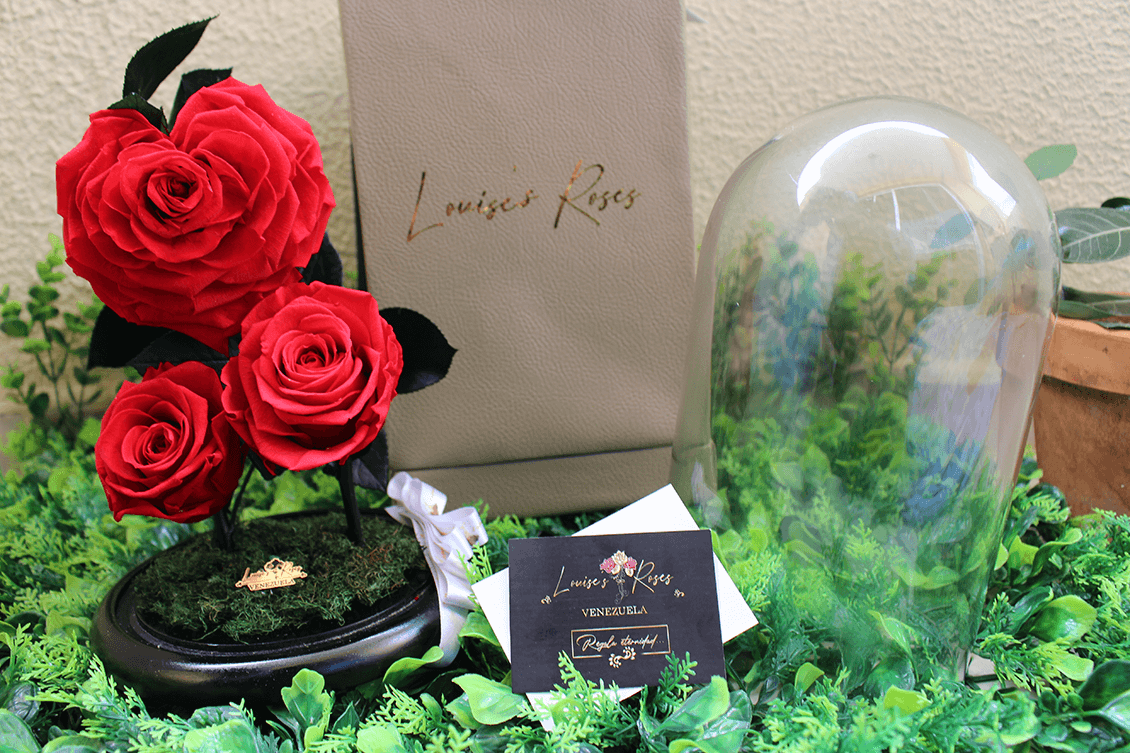
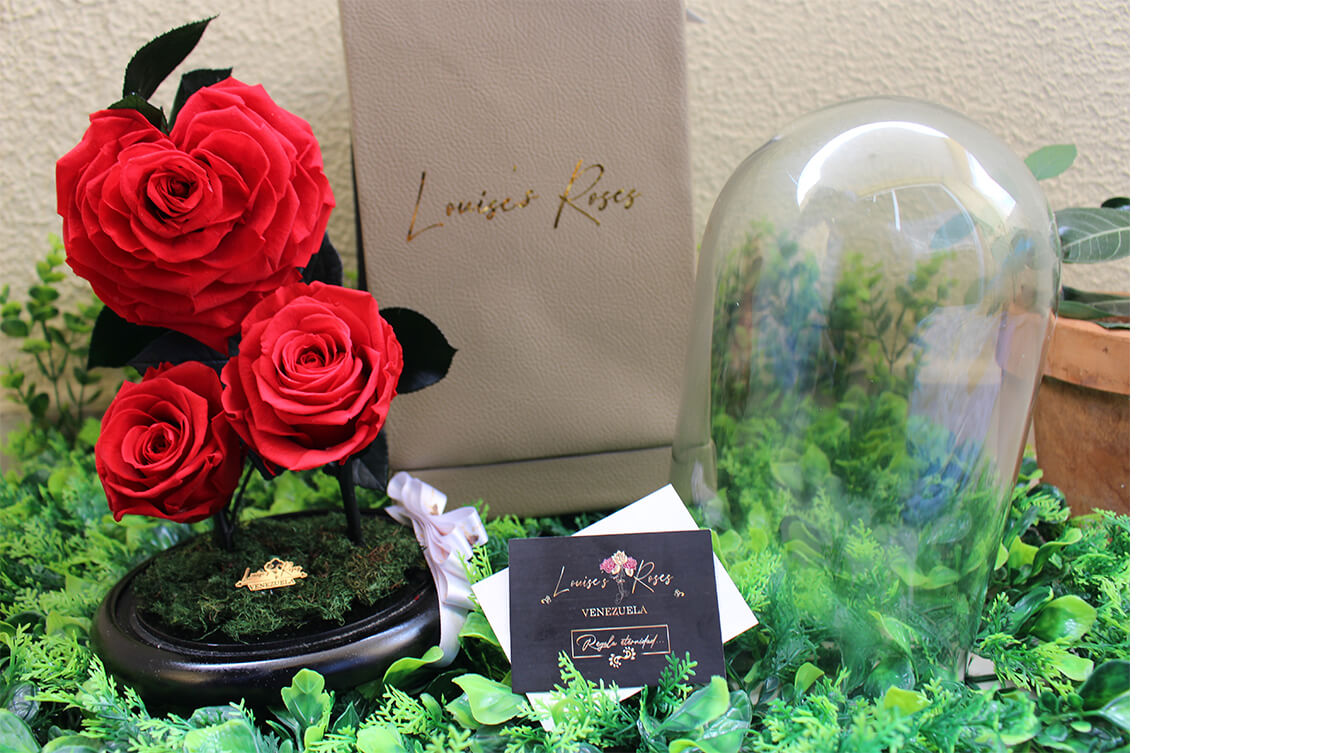
Homepage finished

diff --git a/src/public/css/main.css b/src/public/css/main.css
@@ -1,2 +1,2 @@
-*{color:#fff;font-family:'Nunito Sans', sans-serif;font-size:17px;-webkit-box-sizing:border-box;box-sizing:border-box}body{background-color:#1f1f1f;margin:0;overflow-x:hidden}.container{display:-webkit-box;display:-ms-flexbox;display:flex;-webkit-box-orient:vertical;-webkit-box-direction:normal;-ms-flex-direction:column;flex-direction:column;-webkit-box-align:center;-ms-flex-align:center;align-items:center}li{list-style:none}a{text-decoration:none}.btn{border:2px solid #cd83e2;border-radius:5px;background:none;color:#cd83e2;font-size:27.51px;padding:12px 27px}.title{font-size:44.51px;font-weight:700}.center{text-align:center}.left{text-align:left}.right{text-align:right}.nav nav{margin:auto;height:80px;width:1803px;display:-webkit-box;display:-ms-flexbox;display:flex;-webkit-box-pack:justify;-ms-flex-pack:justify;justify-content:space-between;-webkit-box-align:center;-ms-flex-align:center;align-items:center}.nav nav .nav__links{display:-webkit-box;display:-ms-flexbox;display:flex;-webkit-box-pack:justify;-ms-flex-pack:justify;justify-content:space-between;padding:0;width:269px}.nav nav .nav__icon{width:41px}.nav nav .nav__btn{display:none}header{margin-top:194px;margin-bottom:115px;display:-ms-grid;display:grid;-ms-grid-columns:852px 363px;grid-template-columns:852px 363px;gap:206px}header .header__logo{-webkit-filter:drop-shadow(0px 0px 10px rgba(0,0,0,0.75));filter:drop-shadow(0px 0px 10px rgba(0,0,0,0.75))}.header__info .header__title{margin-top:49px;margin-bottom:27px;font-size:72.02px;font-weight:700}.header__info .header__title *{line-height:82.75px}.header__info .header__title span{color:#969696;font-size:72.02px;font-weight:700}.header__info .header__text{margin-bottom:50px;line-height:23.19px}.bi-arrow-down-circle{font-size:57px;margin-bottom:172px;cursor:pointer}.carousel{width:1339px;margin-bottom:157px;position:relative}.carousel .glider__item{position:relative;margin:0 25px}.carousel .glider__item img{position:relative;left:0}.carousel .carousel__back{left:-70px}.carousel .carousel__next{right:-70px}.carousel button{position:absolute;top:0;bottom:0;background:none;border:none;cursor:pointer}.carousel button i{font-size:35px}.proyect__info{background-color:#f3f3f3;position:absolute;right:0;width:446.33px;height:753px;top:0;padding:25px}.proyect__info *{color:#000}.proyect__number{font-size:116.53px;height:89px;font-weight:700;color:#969696;width:100%;text-align:right;margin-bottom:385px}.proyect__name{margin:0;margin-bottom:8px;font-size:27.51px;font-weight:700}.proyect__description{line-height:23.19px;margin:0;margin-bottom:37px;width:316px;font-size:17px}.proyect__links{margin:0;padding:0;width:100%;display:-webkit-box;display:-ms-flexbox;display:flex;-webkit-box-pack:end;-ms-flex-pack:end;justify-content:flex-end}.proyect__links .bi-github{margin-right:23px}.proyect__links i{font-size:34px;color:#969696}
+*{color:#fff;font-family:'Nunito Sans', sans-serif;font-size:17px;-webkit-box-sizing:border-box;box-sizing:border-box}html{scroll-behavior:smooth}body{background-color:#1f1f1f;margin:0;overflow-x:hidden}.container{display:-webkit-box;display:-ms-flexbox;display:flex;-webkit-box-orient:vertical;-webkit-box-direction:normal;-ms-flex-direction:column;flex-direction:column;-webkit-box-align:center;-ms-flex-align:center;align-items:center}.bi-arrow-down-circle{font-size:57px}.scroll{margin-bottom:172px}li{list-style:none}a{text-decoration:none}.btn{border:2px solid #cd83e2;border-radius:5px;background:none;color:#cd83e2;font-size:27.51px;padding:12px 27px}.title{font-size:44.51px;font-weight:700}.center{text-align:center}.left{text-align:left}.right{text-align:right}.nav nav{margin:auto;height:80px;width:1803px;display:-webkit-box;display:-ms-flexbox;display:flex;-webkit-box-pack:justify;-ms-flex-pack:justify;justify-content:space-between;-webkit-box-align:center;-ms-flex-align:center;align-items:center}.nav nav .nav__links{display:-webkit-box;display:-ms-flexbox;display:flex;-webkit-box-pack:justify;-ms-flex-pack:justify;justify-content:space-between;padding:0;width:269px}.nav nav .nav__icon{width:41px}.nav nav .nav__btn{display:none}header{margin-top:194px;margin-bottom:115px;display:-ms-grid;display:grid;-ms-grid-columns:852px 363px;grid-template-columns:852px 363px;gap:206px}header .header__logo{-webkit-filter:drop-shadow(0px 0px 10px rgba(0,0,0,0.75));filter:drop-shadow(0px 0px 10px rgba(0,0,0,0.75))}.header__info .header__title{margin-top:49px;margin-bottom:27px;font-size:72.02px;font-weight:700}.header__info .header__title *{line-height:82.75px}.header__info .header__title span{color:#969696;font-size:72.02px;font-weight:700}.header__info .header__text{margin-bottom:50px;line-height:23.19px}.carousel{width:1339px;margin-bottom:157px;position:relative}.carousel .glider__item{position:relative;margin:0 25px}.carousel .glider__item img{position:relative;-o-object-fit:cover;object-fit:cover;left:0}.carousel .carousel__back{left:-70px}.carousel .carousel__next{right:-70px}.carousel button{position:absolute;top:0;bottom:0;background:none;border:none;cursor:pointer}.carousel button i{font-size:35px}.proyect__info{background-color:#f3f3f3;position:absolute;right:0;width:446.33px;height:724.88px;top:0;padding:25px}.proyect__info *{color:#000}.proyect__number{font-size:116.53px;height:89px;font-weight:700;color:#969696;width:100%;text-align:right;margin-bottom:370px}.proyect__name{margin:0;margin-bottom:8px;font-size:27.51px;font-weight:700}.proyect__description{line-height:23.19px;margin:0;margin-bottom:37px;width:316px;font-size:17px}.proyect__links{margin:0;padding:0;width:100%;display:-webkit-box;display:-ms-flexbox;display:flex;-webkit-box-pack:end;-ms-flex-pack:end;justify-content:flex-end}.proyect__links .bi-github{margin-right:23px}.proyect__links i{font-size:34px;color:#969696}.shadow{position:absolute;font-size:305.07px;font-weight:700;color:#1c1c1c;top:-350px;left:0;z-index:-1}.cards{display:-webkit-box;display:-ms-flexbox;display:flex;-webkit-box-orient:vertical;-webkit-box-direction:normal;-ms-flex-direction:column;flex-direction:column;position:relative;-webkit-box-align:center;-ms-flex-align:center;align-items:center;margin-bottom:179px}.cards .title.center{margin-bottom:129px}.cards__info{display:-ms-grid;display:grid;-ms-grid-columns:(403px)[3];grid-template-columns:repeat(3, 403px);-ms-grid-rows:560px;grid-template-rows:560px;gap:33px;margin-bottom:172px}.cards__item{background:#111111;-webkit-box-shadow:0px 7px 16px 4px rgba(0,0,0,0.25);box-shadow:0px 7px 16px 4px rgba(0,0,0,0.25);display:-ms-grid;display:grid;-ms-grid-rows:300px 1fr;grid-template-rows:300px 1fr;padding:0 43px;border-radius:5px}.cards__item img{-ms-flex-item-align:center;-ms-grid-row-align:center;align-self:center;-ms-grid-column-align:center;justify-self:center}.cards__item h5{font-size:27.51px;font-weight:700;margin:0}.cards__item p{line-height:23.19px;margin:0;margin-top:15px}.cards__img--team{width:297px}.cards__img--desing{width:275px}.cards__img--mockup{width:285.16px}.cards__item--more{position:relative;width:1238px}.cards__header{width:100%;display:-webkit-box;display:-ms-flexbox;display:flex;-webkit-box-orient:vertical;-webkit-box-direction:normal;-ms-flex-direction:column;flex-direction:column}.cards__header h4{font-size:44.51px;width:100%;margin-bottom:30px;font-weight:700}.cards__header img{width:640px;position:relative;-webkit-filter:drop-shadow(0px 4px 9px rgba(0,0,0,0.25));filter:drop-shadow(0px 4px 9px rgba(0,0,0,0.25))}.cards__header.service{-webkit-box-align:start;-ms-flex-align:start;align-items:flex-start}.cards__header.service h4{text-align:left}.cards__header.about{-webkit-box-align:end;-ms-flex-align:end;align-items:flex-end}.cards__header.about h4{text-align:right}.cards__main{width:896px;position:absolute;bottom:26px}.cards__main h5{margin:0;font-size:27.51px;font-weight:700}.cards__main p{line-height:23.19px;border-radius:5px;-webkit-box-shadow:0px 7px 15px 10px rgba(0,0,0,0.25);box-shadow:0px 7px 15px 10px rgba(0,0,0,0.25);background:#111111;padding:24px;margin:0;margin-top:16px}.cards__main.service{right:0}.cards__item--more.about{margin-top:166px}.call__background{width:1378px;height:689px;display:-webkit-box;display:-ms-flexbox;display:flex;-webkit-box-orient:vertical;-webkit-box-direction:normal;-ms-flex-direction:column;flex-direction:column;-webkit-box-pack:center;-ms-flex-pack:center;justify-content:center;-webkit-box-align:center;-ms-flex-align:center;align-items:center;background:url("../../svg/background.svg") no-repeat center center/cover}.call__content{display:-webkit-box;display:-ms-flexbox;display:flex;-webkit-box-orient:vertical;-webkit-box-direction:normal;-ms-flex-direction:column;flex-direction:column;-webkit-box-align:center;-ms-flex-align:center;align-items:center;margin-top:150px}.call__content .title{width:453px}footer{width:100vw;height:162px;background:#84329b;display:-webkit-box;display:-ms-flexbox;display:flex;-webkit-box-orient:vertical;-webkit-box-direction:normal;-ms-flex-direction:column;flex-direction:column;-webkit-box-align:center;-ms-flex-align:center;align-items:center;-webkit-box-pack:center;-ms-flex-pack:center;justify-content:center}.footer__links{display:-ms-grid;display:grid;-ms-grid-columns:(33px)[3];grid-template-columns:repeat(3, 33px);gap:28px}.footer__links i{font-size:33px}.footer__copy{font-weight:600;margin:0;margin-top:26px}.footer__copy a{color:#35e2cd}
 /*# sourceMappingURL=main.css.map */

diff --git a/src/public/sass/components/_cards.scss b/src/public/sass/components/_cards.scss
@@ -1,0 +1,138 @@
+.shadow {
+	position: absolute;
+	font-size: 305.07px;
+	font-weight: 700;
+	color: #1c1c1c;
+	top: -350px;
+	left: 0;
+	z-index: -1;
+}
+
+.cards {
+	display: flex;
+	flex-direction: column;
+	position: relative;
+	align-items: center;
+	margin-bottom: 179px;
+
+	.title.center {
+		margin-bottom: 129px;
+	}
+}
+
+.cards__info {
+	display: grid;
+	grid-template-columns: repeat(3, 403px);
+	grid-template-rows: 560px;
+	gap: 33px;
+	margin-bottom: 172px;
+}
+
+.cards__item {
+	background: #111111;
+	box-shadow: 0px 7px 16px 4px rgba(0, 0, 0, 0.25);
+	display: grid;
+	grid-template-rows: 300px 1fr;
+	padding: 0 43px;
+	border-radius: 5px;
+
+	img {
+		align-self: center;
+		justify-self: center;
+	}
+
+	h5 {
+		font-size: 27.51px;
+		font-weight: 700;
+		margin: 0;
+	}
+
+	p {
+		line-height: 23.19px;
+		margin: 0;
+		margin-top: 15px;
+	}
+}
+
+.cards__img--team {
+	width: 297px;
+}
+
+.cards__img--desing {
+	width: 275px;
+}
+
+.cards__img--mockup {
+	width: 285.16px;
+}
+
+// Segunda sección de targetas.
+.cards__item--more {
+	position: relative;
+	width: 1238px;
+}
+
+.cards__header {
+	width: 100%;
+	display: flex;
+	flex-direction: column;
+
+	h4 {
+		font-size: 44.51px;
+		width: 100%;
+		margin-bottom: 30px;
+		font-weight: 700;
+	}
+
+	img {
+		width: 640px;
+		position: relative;
+		filter: drop-shadow(0px 4px 9px rgba(0, 0, 0, 0.25));
+	}
+}
+
+.cards__header.service {
+	align-items: flex-start;
+
+	h4 {
+		text-align: left;
+	}
+}
+
+.cards__header.about {
+	align-items: flex-end;
+
+	h4 {
+		text-align: right;
+	}
+}
+
+.cards__main {
+	width: 896px;
+	position: absolute;
+	bottom: 26px;
+
+	h5 {
+		margin: 0;
+		font-size: 27.51px;
+		font-weight: 700;
+	}
+
+	p {
+		line-height: 23.19px;
+		border-radius: 5px;
+		box-shadow: 0px 7px 15px 10px rgba(0, 0, 0, 0.25);
+		background: #111111;
+		padding: 24px;
+		margin: 0;
+		margin-top: 16px;
+	}
+}
+
+.cards__main.service {
+	right: 0;
+}
+
+.cards__item--more.about {
+	margin-top: 166px;
+}

diff --git a/src/public/sass/components/_footer.scss b/src/public/sass/components/_footer.scss
@@ -1,0 +1,29 @@
+footer {
+	width: 100vw;
+	height: 162px;
+	background: #84329b;
+	display: flex;
+	flex-direction: column;
+	align-items: center;
+	justify-content: center;
+}
+
+.footer__links {
+	display: grid;
+	grid-template-columns: repeat(3, 33px);
+	gap: 28px;
+
+	i {
+		font-size: 33px;
+	}
+}
+
+.footer__copy {
+	font-weight: 600;
+	margin: 0;
+	margin-top: 26px;
+
+	a {
+		color: #35e2cd;
+	}
+}

diff --git a/src/public/sass/components/_call.scss b/src/public/sass/components/_call.scss
@@ -1,0 +1,20 @@
+.call__background {
+	width: 1378px;
+	height: 689px;
+	display: flex;
+	flex-direction: column;
+	justify-content: center;
+	align-items: center;
+	background: url('../../svg/background.svg') no-repeat center center/cover;
+}
+
+.call__content {
+	display: flex;
+	flex-direction: column;
+	align-items: center;
+	margin-top: 150px;
+
+	.title {
+		width: 453px;
+	}
+}

diff --git a/src/public/sass/components/_carousel.scss b/src/public/sass/components/_carousel.scss
@@ -9,6 +9,7 @@
 
 		img {
 			position: relative;
+			object-fit: cover;
 			left: 0;
 		}
 	}
@@ -40,7 +41,7 @@
 	position: absolute;
 	right: 0;
 	width: 446.33px;
-	height: 753px;
+	height: 724.88px;
 	top: 0;
 	padding: 25px;
 
@@ -56,7 +57,7 @@
 	color: #969696;
 	width: 100%;
 	text-align: right;
-	margin-bottom: 385px;
+	margin-bottom: 370px;
 }
 
 .proyect__name {

diff --git a/src/public/sass/components/_global.scss b/src/public/sass/components/_global.scss
@@ -5,6 +5,10 @@
 	box-sizing: border-box;
 }
 
+html {
+	scroll-behavior: smooth;
+}
+
 body {
 	background-color: $gray;
 	margin: 0;
@@ -15,6 +19,14 @@ body {
 	display: flex;
 	flex-direction: column;
 	align-items: center;
+}
+
+.bi-arrow-down-circle {
+	font-size: 57px;
+}
+
+.scroll {
+	margin-bottom: 172px;
 }
 
 li {

diff --git a/src/public/sass/main.scss b/src/public/sass/main.scss
@@ -7,4 +7,6 @@ $white: #ffffff;
 @import 'components/nav';
 @import 'components/header';
 @import 'components/carousel';
-@import 'components/skills';
+@import 'components/cards';
+@import 'components/call';
+@import 'components/footer';

diff --git a/src/public/sass/components/_header.scss b/src/public/sass/components/_header.scss
@@ -33,9 +33,3 @@ header {
 		line-height: 23.19px;
 	}
 }
-
-.bi-arrow-down-circle {
-	font-size: 57px;
-	margin-bottom: 172px;
-	cursor: pointer;
-}
